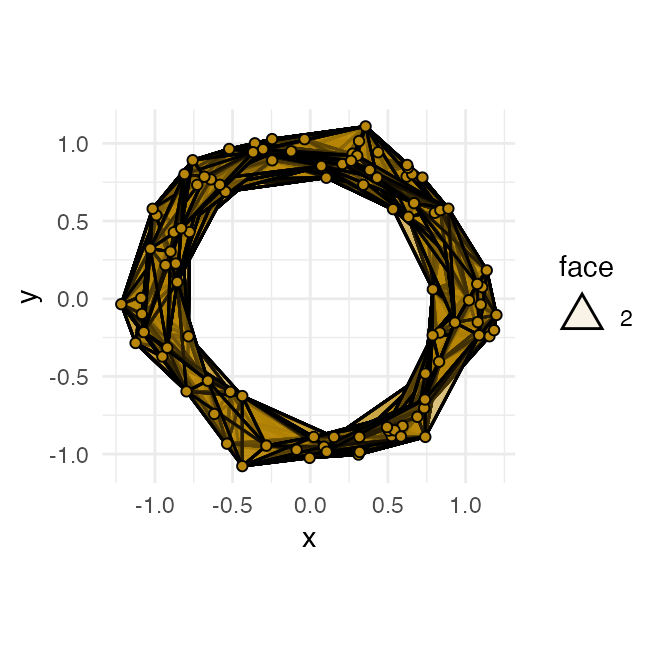
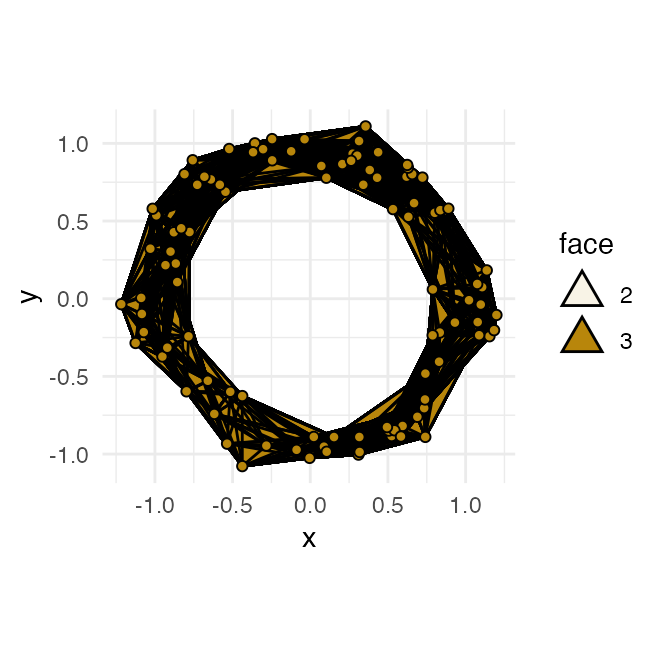
reduce vingette runtime + sort vingettes

diff --git a/docs/articles/illustrate-constructions.html b/docs/articles/illustrate-constructions.html
@@ -340,7 +340,7 @@
 </ul>
 </li>
 </ul>
-<p>Each of the four panels complement one another by providing overlapping and consistent pieces of information with varying levels of clarity. Together, we get a good sense of what’s going on in <code>annulus_df</code> at a diameter of <code>0.25</code>. Next, we look at diameter <code>0.75</code>.</p>
+<p>Each of the four panels complement one another by providing overlapping and consistent pieces of information with varying levels of clarity. Together, we get a good sense of what’s going on in <code>annulus_df</code> at a diameter of <code>0.25</code>. Next, we look at diameter <code>0.75</code>, using the <code>'TDA'</code> engine to reduce runtime.</p>
 <div class="sourceCode" id="cb13"><pre class="downlit sourceCode r">
 <code class="sourceCode R"><span><span class="co"># topological barcode</span></span>
 <span><span class="fu"><a href="https://ggplot2.tidyverse.org/reference/ggplot.html" class="external-link">ggplot</a></span><span class="op">(</span><span class="va">annulus_phom</span>, <span class="fu"><a href="https://ggplot2.tidyverse.org/reference/aes.html" class="external-link">aes</a></span><span class="op">(</span>start <span class="op">=</span> <span class="va">birth</span>, end <span class="op">=</span> <span class="va">death</span>,</span>
@@ -379,7 +379,8 @@
 <span><span class="fu"><a href="https://ggplot2.tidyverse.org/reference/ggplot.html" class="external-link">ggplot</a></span><span class="op">(</span><span class="va">annulus_df</span>, <span class="fu"><a href="https://ggplot2.tidyverse.org/reference/aes.html" class="external-link">aes</a></span><span class="op">(</span>x <span class="op">=</span> <span class="va">x</span>, y <span class="op">=</span> <span class="va">y</span><span class="op">)</span><span class="op">)</span> <span class="op">+</span></span>
 <span>  <span class="fu"><a href="https://ggplot2.tidyverse.org/reference/coord_fixed.html" class="external-link">coord_fixed</a></span><span class="op">(</span><span class="op">)</span> <span class="op">+</span></span>
 <span>  <span class="fu"><a href="../reference/simplicial_complex.html">stat_simplicial_complex</a></span><span class="op">(</span>diameter <span class="op">=</span> <span class="va">diam</span><span class="op">[</span><span class="fl">2</span><span class="op">]</span>, dimension_max <span class="op">=</span> <span class="fl">2L</span>,</span>
-<span>                          fill <span class="op">=</span> <span class="st">"darkgoldenrod"</span><span class="op">)</span> <span class="op">+</span></span>
+<span>                          fill <span class="op">=</span> <span class="st">"darkgoldenrod"</span>,</span>
+<span>                          engine <span class="op">=</span> <span class="st">"TDA"</span><span class="op">)</span> <span class="op">+</span></span>
 <span>  <span class="fu"><a href="https://ggplot2.tidyverse.org/reference/ggtheme.html" class="external-link">theme_minimal</a></span><span class="op">(</span><span class="op">)</span></span>
 <span><span class="co">#&gt; Warning: Using alpha for a discrete variable is not advised.</span></span></code></pre></div>
 <p><img src="illustrate-constructions_files/figure-html/during-1.png" width="331.2"><img src="illustrate-constructions_files/figure-html/during-2.png" width="331.2"><img src="illustrate-constructions_files/figure-html/during-3.png" width="331.2"><img src="illustrate-constructions_files/figure-html/during-4.png" width="331.2"></p>
@@ -454,7 +455,8 @@
 <span><span class="fu"><a href="https://ggplot2.tidyverse.org/reference/ggplot.html" class="external-link">ggplot</a></span><span class="op">(</span><span class="va">annulus_df</span>, <span class="fu"><a href="https://ggplot2.tidyverse.org/reference/aes.html" class="external-link">aes</a></span><span class="op">(</span>x <span class="op">=</span> <span class="va">x</span>, y <span class="op">=</span> <span class="va">y</span><span class="op">)</span><span class="op">)</span> <span class="op">+</span></span>
 <span>  <span class="fu"><a href="https://ggplot2.tidyverse.org/reference/coord_fixed.html" class="external-link">coord_fixed</a></span><span class="op">(</span><span class="op">)</span> <span class="op">+</span></span>
 <span>  <span class="fu"><a href="../reference/simplicial_complex.html">stat_simplicial_complex</a></span><span class="op">(</span>diameter <span class="op">=</span> <span class="va">diam</span><span class="op">[</span><span class="fl">3</span><span class="op">]</span>, dimension_max <span class="op">=</span> <span class="fl">2L</span>,</span>
-<span>                          fill <span class="op">=</span> <span class="st">"darkgoldenrod"</span><span class="op">)</span> <span class="op">+</span></span>
+<span>                          fill <span class="op">=</span> <span class="st">"darkgoldenrod"</span>,</span>
+<span>                          engine <span class="op">=</span> <span class="st">"TDA"</span><span class="op">)</span> <span class="op">+</span></span>
 <span>  <span class="fu"><a href="https://ggplot2.tidyverse.org/reference/ggtheme.html" class="external-link">theme_minimal</a></span><span class="op">(</span><span class="op">)</span></span>
 <span><span class="co">#&gt; Warning: Using alpha for a discrete variable is not advised.</span></span></code></pre></div>
 <p><img src="illustrate-constructions_files/figure-html/after-1.png" width="331.2"><img src="illustrate-constructions_files/figure-html/after-2.png" width="331.2"><img src="illustrate-constructions_files/figure-html/after-3.png" width="331.2"><img src="illustrate-constructions_files/figure-html/after-4.png" width="331.2"></p>

diff --git a/docs/articles/index.html b/docs/articles/index.html
@@ -32,13 +32,13 @@
     <span class="caret"></span>
   </a>
   <ul class="dropdown-menu" role="menu"><li>
-      <a href="../articles/grouped-list-data.html">Topological analysis of grouped data and list-columns</a>
+      <a href="../articles/visualize-persistence.html">Visualizing persistent homology data</a>
     </li>
     <li>
       <a href="../articles/illustrate-constructions.html">Illustrating topological constructions on point clouds</a>
     </li>
     <li>
-      <a href="../articles/visualize-persistence.html">Visualizing persistent homology data</a>
+      <a href="../articles/grouped-list-data.html">Topological analysis of grouped data and list-columns</a>
     </li>
   </ul></li>
 <li>
@@ -63,14 +63,14 @@
     </div>
 
     <div class="section ">
-      <h3>All vignettes</h3>
+      <h3>Vignettes</h3>
       <p class="section-desc"></p>
 
-      <dl><dt><a href="grouped-list-data.html">Topological analysis of grouped data and list-columns</a></dt>
+      <dl><dt><a href="visualize-persistence.html">Visualizing persistent homology data</a></dt>
         <dd>
         </dd><dt><a href="illustrate-constructions.html">Illustrating topological constructions on point clouds</a></dt>
         <dd>
-        </dd><dt><a href="visualize-persistence.html">Visualizing persistent homology data</a></dt>
+        </dd><dt><a href="grouped-list-data.html">Topological analysis of grouped data and list-columns</a></dt>
         <dd>
       </dd></dl></div>
   </div>
